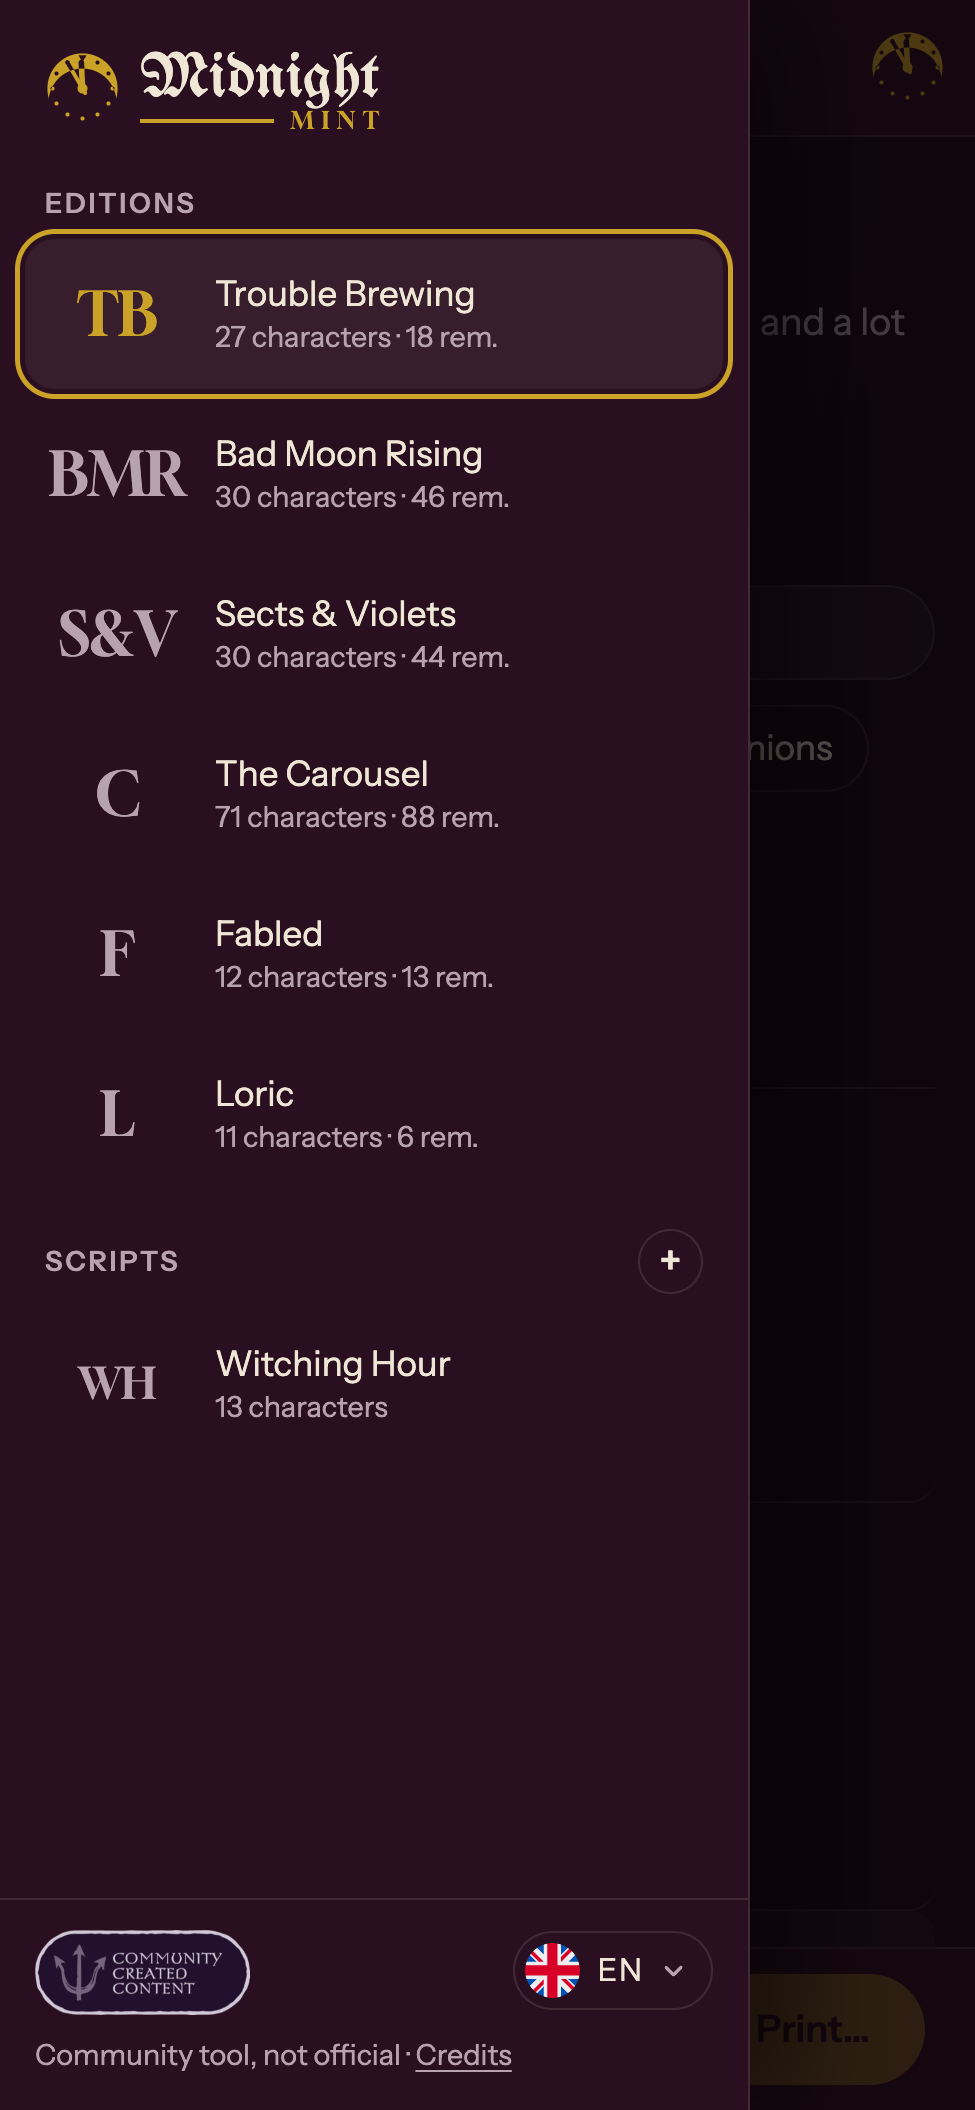
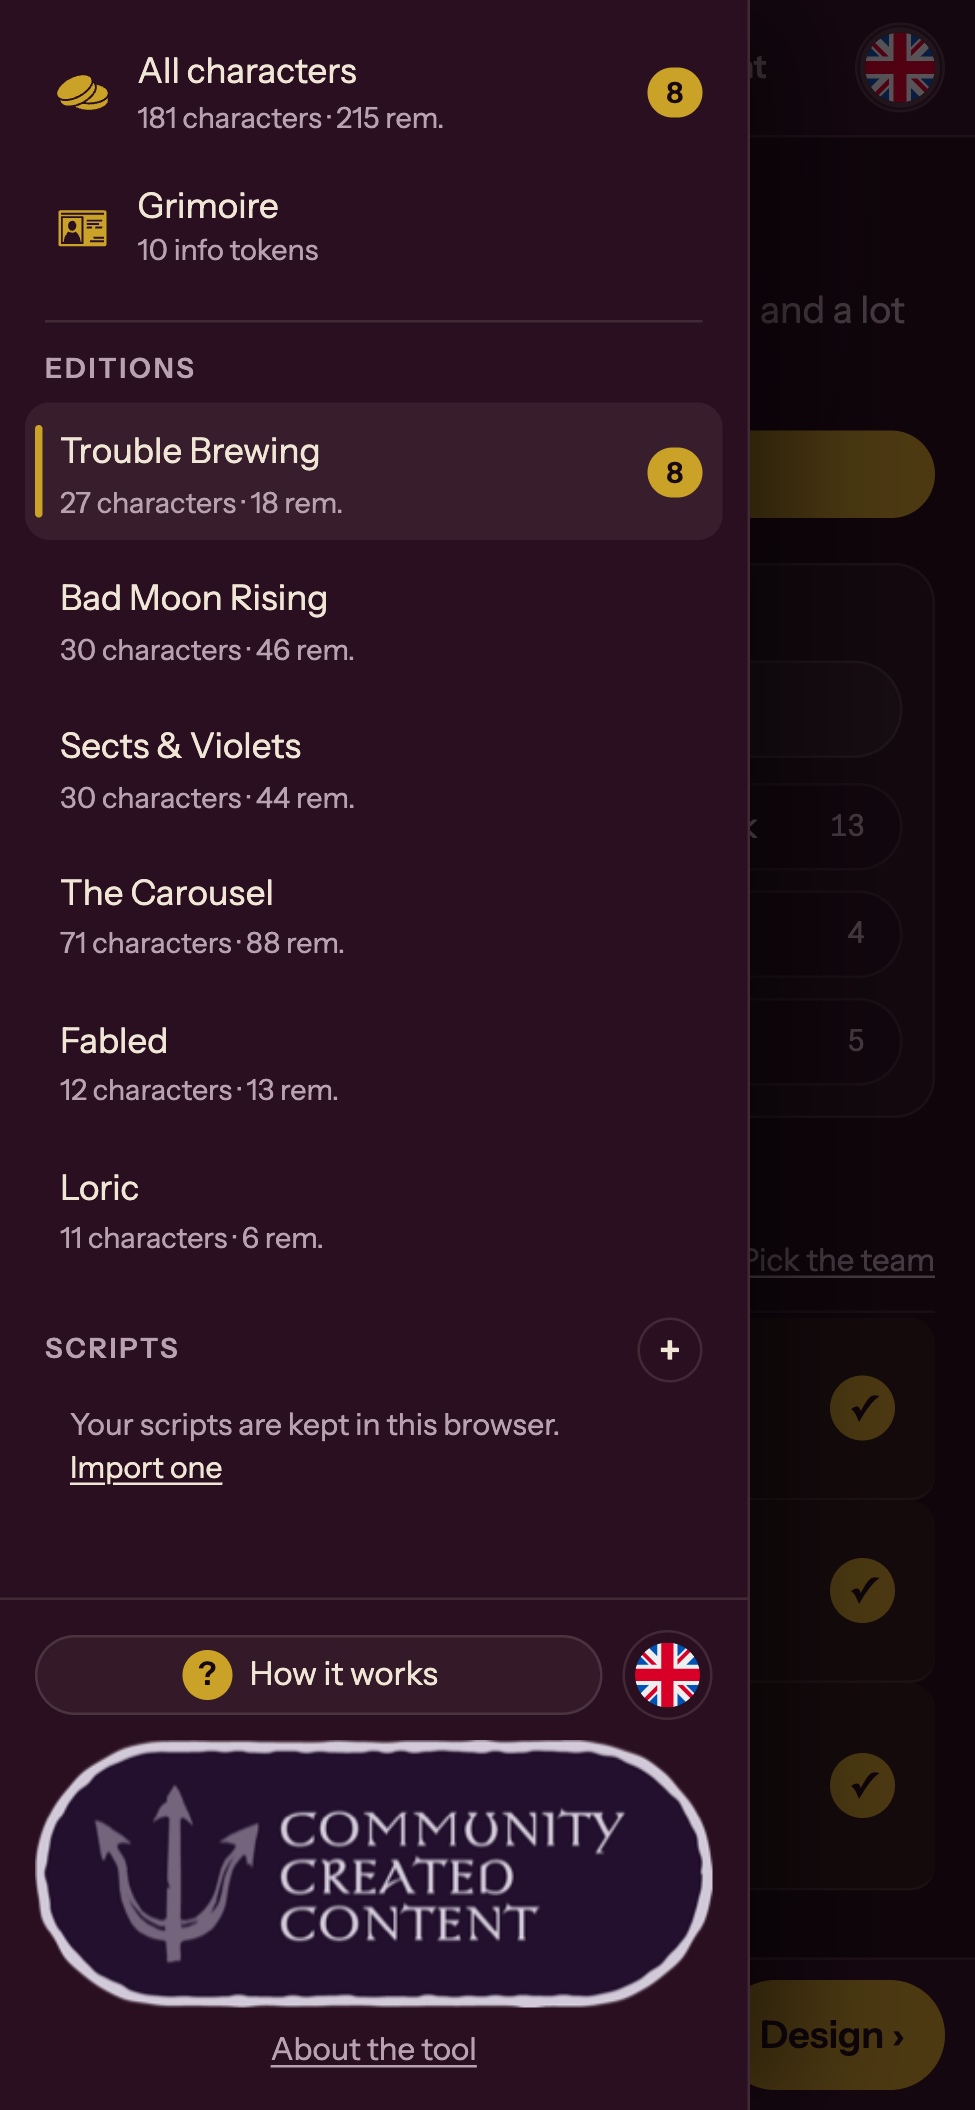
Guide and README pictures redone; README brought up to date
The guide's three pictures (English and Spanish) and the README's design step, queue, back
designs and phone views are taken again from the current app; tools/guide/make-readme-shots.mjs
takes the README's. The README covers All characters, row picking and reminder chips, the
Add to queue menu, homebrew scripts with traced pictures, the new templates (Edition, the
slim Fast print), the Orbits back, copies in the queue and About the tool; the window layout
is gone. imagetracerjs is credited, in the README and the app.

diff --git a/src/i18n.js b/src/i18n.js
@@ -83,7 +83,7 @@ const STR = {
     "credits.iconsIntro": "Los iconos de los personajes son de game-icons.net, bajo licencia Creative Commons BY 3.0. Gracias a sus autores:",
     "credits.count": ({ n }) => `${n} ${plural(n, "icono", "iconos")}`,
     "credits.more": "Tipografías y librerías",
-    "credits.moreText": "Banderas de circle-flags (MIT). Letras de las fichas en Alegreya SC; Gloock, Instrument Sans y UnifrakturMaguntia (todas SIL OFL). Hecha con three.js, Firebase, JSZip, jsPDF y svg2pdf.js.",
+    "credits.moreText": "Banderas de circle-flags (MIT). Letras de las fichas en Alegreya SC; Gloock, Instrument Sans y UnifrakturMaguntia (todas SIL OFL). Hecha con three.js, Firebase, JSZip, jsPDF, svg2pdf.js e imagetracerjs (dominio público, para trazar las imágenes de los guiones).",
     "credits.code": "Código",
     "credits.repo": "El código, en GitHub",
     "tlang.label": "Fichas en",
@@ -529,7 +529,7 @@ const STR = {
     "credits.iconsIntro": "Character icons come from game-icons.net under the Creative Commons BY 3.0 licence. Thanks to their authors:",
     "credits.count": ({ n }) => `${n} ${plural(n, "icon", "icons")}`,
     "credits.more": "Fonts and libraries",
-    "credits.moreText": "Flags from circle-flags (MIT). Token lettering in Alegreya SC; Gloock, Instrument Sans and UnifrakturMaguntia (all SIL OFL). Built with three.js, Firebase, JSZip, jsPDF and svg2pdf.js.",
+    "credits.moreText": "Flags from circle-flags (MIT). Token lettering in Alegreya SC; Gloock, Instrument Sans and UnifrakturMaguntia (all SIL OFL). Built with three.js, Firebase, JSZip, jsPDF, svg2pdf.js and imagetracerjs (public domain, to trace scripts' pictures).",
     "credits.code": "Code",
     "credits.repo": "The source code on GitHub",
     "tlang.label": "Tokens in",

diff --git a/README.md b/README.md
@@ -28,28 +28,33 @@
 - Every character and reminder token of each edition, in English or in 12 community translations from
   [Villacuervos](https://villacuervos.es): six Spanish ones, Asturian, Catalan, Valencian, Basque, Galician
   and Portuguese. Where a translation has them, characters can also take their feminine form.
+- **All characters** (every edition at once, each row naming its edition) and the **Grimoire** sit above the editions;
+  the app opens on All characters and comes back to the view you left.
 - Search by character or reminder text, including the names you gave them, and filter by team.
-- Add a whole edition (or whatever is on screen) to the print queue in one click, with or without its reminders.
+- Click anywhere on a character's row to add it with its reminders. Reminders are chips under its name; identical ones
+  share a chip ("Correct ×5"). *Add to queue* adds everything on screen: characters, their reminders, or both.
 - Keep your own **scripts**: import the Script Tool's JSON and the script sits beside the editions.
   Scripts live in your browser; share one with a link (the script travels inside it) or download it as JSON.
+- **Homebrew** scripts work too: characters a script defines itself (a name, a team, an ability) become tokens of
+  that script, with their reminders. Their pictures, PNG included, are traced into printable icons in your browser.
 
 | Token language | A shared script |
 |---|---|
 | ![Choosing the token language: the list of languages with Spanish unfolded into its six versions, and the tokens redrawn in the one pointed at](docs/screenshots/token-language.png) | ![Opening a shared script link: its 13 tokens and a button to save it](docs/screenshots/script-shared.png) |
 
 **Design them**
-- Your own icons: give any character another icon from game-icons.net (searched in the workshop, credited in *Credits*) or an SVG of your own; its reminders share it. A script can bring its own names and icons (`{"id": "gambler", "name": "…", "icon": "lorc/drill"}`, or the Script Tool's `image` when it's an SVG), and *Download JSON* keeps them.
-- Templates to start from: *Fast print*, *Pitch-black night*, *Midnight*, *Ivory coin* and *High legibility*, all with the frame in the team colour. A line over the controls says which one you started from and whether you've modified it. A magnet (glued into a pocket, or hidden inside with a pause) is a choice of its own and stays when you switch templates.
-- Two layouts: **classic** (name curved along the edge) and **window** (a framed picture with a straight name).
-  The window can be flat, so nobody can feel which character they drew.
-- 12 frame designs, and 6 back designs plus the edition's name or your own SVG, each drawn on your character as you choose.
+- Your own icons: give any character another icon from game-icons.net (searched in the workshop, credited in *About the tool*) or an SVG of your own; its reminders share it. A script can bring its own names and icons in the Script Tool's `image` (a game-icons.net link, an SVG, or a picture to trace), and *Download JSON* keeps them.
+- Templates to start from: *Edition* (the default: the edition's name in gold on the back), *Fast print* (1.2 mm,
+  the thinnest that holds up), *Pitch-black night*, *Midnight* and *Ivory coin*, all with the frame in the team colour.
+  A line over the controls says which one you started from and whether you've modified it. A magnet (glued into a pocket, or hidden inside with a pause) is a choice of its own and stays when you switch templates.
+- 12 frame designs, and 7 back designs plus the edition's name (a homebrew's script) or your own SVG, each drawn on your character as you choose.
 - Any of the 10 filament colours for the coin, the frame and the back; the name and icon take the team colour.
 - A big live 3D preview you can turn around, with front and back views; it turns by itself to the part you're editing.
 - Style the whole set at once, or switch to *This token only* to give one token its own text, icon or look. A pen marks those tokens and takes you straight back to them. Save designs in your browser.
 
 | Frames | Backs |
 |---|---|
-| ![Ten frame designs, from a plain rim to laurel branches](docs/screenshots/frame-designs.png) | ![Seven back designs: plain, Midnight clock, guilloché, compass rose, sunburst, eclipse and edition name](docs/screenshots/back-designs.png) |
+| ![Ten frame designs, from a plain rim to laurel branches](docs/screenshots/frame-designs.png) | ![The back designs: plain, Midnight clock, guilloché, compass rose, sunburst, eclipse, orbits and edition name](docs/screenshots/back-designs.png) |
 
 **Add magnets**
 - **Back pocket**: an open hole in the centre of the back, to glue a magnet into after printing.
@@ -64,8 +69,9 @@
   They print like the coins: 8 a plate on the A1, 2 on the A1 mini, 8 an A4 sheet.
 
 **Print them**
-- Three steps: **pick** the tokens (tap them, add copies), **design** them (one design for the set, or one of
-  their own), then **print**: see the plates (with their filaments) or the A4 sheets before you download.
+- Three steps: **pick** the tokens, **design** them (one design for the set, or one of their own), then **print**:
+  see the plates (with their filaments) or the A4 sheets before you download. Copies are set in the queue,
+  which lists the characters and the reminders apart, each with its own count.
 - **Bambu Lab A1 or A1 mini, with AMS lite**: download a ready-to-print `.3mf`. Every part already has its filament,
   tokens are grouped onto plates by team with at most 4 colours each, and hidden magnets come with their pause.
   The A1 mini's smaller plate holds 8 characters or 14 reminders (the A1: 24 and 34). Choose the nozzle too:
@@ -76,18 +82,18 @@
 
 | The queue | 3D printer | Paper |
 |---|---|---|
-| ![The print queue: one row per character, with copies and reminder chips](docs/screenshots/queue-list.png) | ![Printing on a 3D printer: the filaments and the plates, grouped by team](docs/screenshots/queue-print-3d.png) | ![Printing on paper: each A4 sheet's front and back](docs/screenshots/queue-print-paper.png) |
+| ![The print queue: the characters by team, then the reminders, each with its copies](docs/screenshots/queue-list.png) | ![Printing on a 3D printer: the filaments and the plates, grouped by team](docs/screenshots/queue-print-3d.png) | ![Printing on paper: each A4 sheet's front and back](docs/screenshots/queue-print-paper.png) |
 
 | PDF, fronts | PDF, backs |
 |---|---|
 | ![A4 sheet of token fronts](docs/screenshots/pdf-front.png) | ![The matching sheet of backs, mirrored for double-sided printing](docs/screenshots/pdf-back.png) |
 
-It also works on phones: the sidebar becomes a menu, and the top bar steps between editions.
+It also works on phones: the sidebar becomes a menu, with *How it works*, the app's language and *About the tool* at its foot.
 
 <p align="center">
   <img src="docs/screenshots/mobile.png" alt="The app on a phone: the Trouble Brewing sheet" width="280">
   &nbsp;
-  <img src="docs/screenshots/mobile-menu.png" alt="The phone menu: editions, scripts, language and credits" width="280">
+  <img src="docs/screenshots/mobile-menu.png" alt="The phone menu: all characters, the grimoire, editions, scripts, and the guide, language and About at its foot" width="280">
 </p>
 
 ## Running it locally
@@ -126,7 +132,9 @@ and `node tools/upload-library.mjs` replaces the library with it.
 - `src/main.js`, `src/i18n.js`, `src/style.css`: the app, its Spanish and English text, and its look.
 - `src/translations.js`: the languages tokens can be printed in, and who translated each one.
 - `src/firebase.js`, `firestore.rules`: the public character library. Only the admin signs in (open the app with `?admin`) to upload it.
-- `tools/`: test pages and helpers (UI test server, design sheets, icon review, Bambu template).
+- `src/icons.js`: a token's own icon: an SVG, a game-icons.net icon, or a script's picture traced into shapes.
+- `tools/`: test pages and helpers (UI test server, design sheets, icon review, Bambu template, and
+  `tools/guide/`, which takes the guide's and this README's pictures).
 
 ## License and credits
 
@@ -147,7 +155,7 @@ and keeps its own terms:
   Galician: Dumis. Portuguese: uriell.
 - **Character icons** come from [game-icons.net](https://game-icons.net) under
   [CC BY 3.0](https://creativecommons.org/licenses/by/3.0/). Each icon's author is credited in the app
-  (*Credits*, at the bottom of the sidebar).
+  (*About the tool*, at the bottom of the sidebar).
 - **Language flags** come from [circle-flags](https://github.com/HatScripts/circle-flags) (MIT).
 - **Fonts**: the token lettering is Alegreya SC ExtraBold by Juan Pablo del Peral (Huerta Tipográfica),
   under the SIL Open Font License (`public/AlegreyaSC-OFL.txt`); it was picked for strokes a 0.4 mm nozzle
@@ -155,4 +163,4 @@ and keeps its own terms:
   Dumbledor 1 (© GeM), the earlier lettering, is still in `public/` for the design prototypes in `tools/`.
 - **Libraries**: [three.js](https://threejs.org) (MIT), [Firebase](https://firebase.google.com) (Apache 2.0),
   [JSZip](https://stuk.github.io/jszip/) (MIT or GPLv3), [jsPDF](https://github.com/parallax/jsPDF) (MIT)
-  and [svg2pdf.js](https://github.com/yWorks/svg2pdf.js) (MIT).
+  [svg2pdf.js](https://github.com/yWorks/svg2pdf.js) (MIT) and [imagetracerjs](https://github.com/jankovicsandras/imagetracerjs) (public domain).
